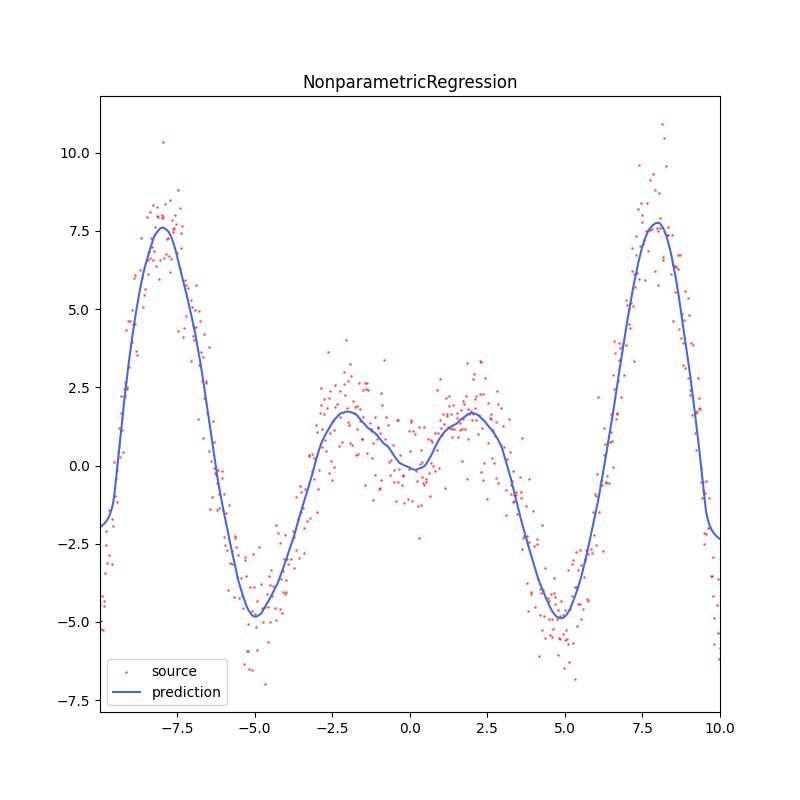
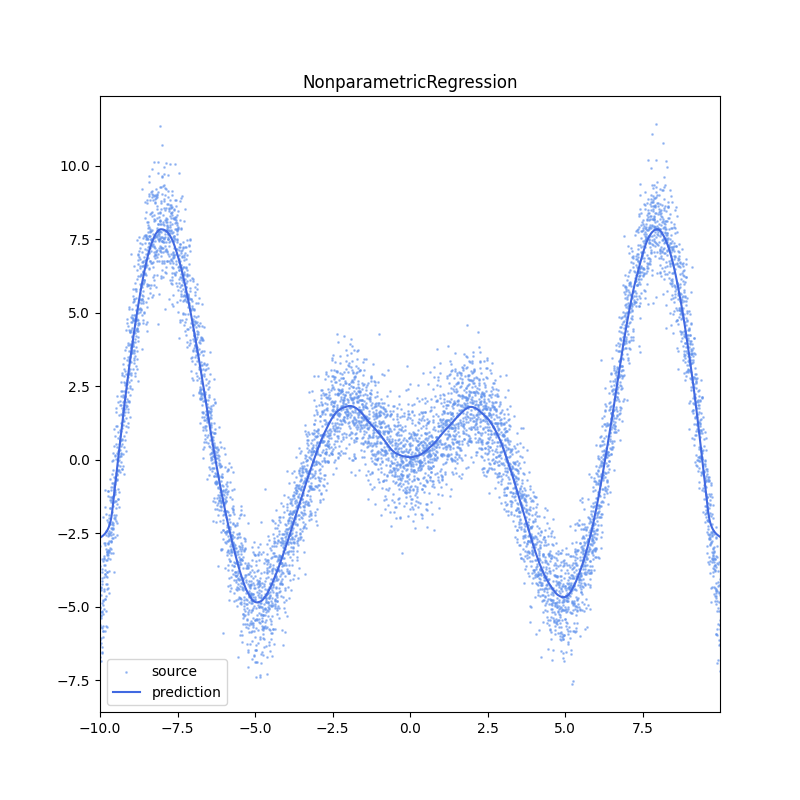
homework1_sem2

diff --git a/homeworks/sem2_hw1/vizualize.py b/homeworks/sem2_hw1/vizualize.py
@@ -1,0 +1,110 @@
+import numpy as np
+import matplotlib.pyplot as plt
+from enum import Enum
+import os
+
+
+class DiagramType(Enum):
+    violin = 0,
+    hist = 1,
+    boxplot = 2
+
+
+def _vizualize_violin(axis: plt.Axes, data: np.ndarray, vert=False) -> None:
+    violin_parts = axis.violinplot(
+        data,
+        vert=vert,
+        showmedians=True,
+    )
+
+    for body in violin_parts["bodies"]:
+        body.set_facecolor("cornflowerblue")
+        body.set_edgecolor("blue")
+    for part in violin_parts:
+        if part == "bodies":
+            continue
+        violin_parts[part].set_edgecolor("cornflowerblue")
+
+
+def _vizualize_hist(axis: plt.Axes, data: np.ndarray, vert=False) -> None:
+    axis.hist(
+        data,
+        bins=50,
+        color="cornflowerblue",
+        orientation= "vertical" if not vert else "horizontal",
+        density=True,
+        alpha=0.5,
+    )
+
+
+def _visualize_boxplot(axis: plt.Axes, data: np.ndarray, vert=False) -> None:
+    axis.boxplot(
+        data,
+        vert=vert,
+        patch_artist=True,
+        boxprops=dict(facecolor="lightsteelblue"),
+        medianprops=dict(color="k"),
+    )
+
+
+def _visualise(axis: plt.Axes, data: np.ndarray, diagram_type: DiagramType, vert=False) -> None:
+    if diagram_type == DiagramType.boxplot:
+        _visualize_boxplot(axis, data, vert)
+    elif diagram_type == DiagramType.hist:
+        _vizualize_hist(axis, data, vert)
+    elif diagram_type == DiagramType.violin:
+        _vizualize_violin(axis, data, vert)
+    else:
+        raise RuntimeError('unknown diagram type')
+
+
+def visualize_distribution(
+#    axis: plt.Axes, /не понятно как юзать в двумерном случае
+    data: np.ndarray,
+    diagram_type: DiagramType,
+    path_to_save: str = "",
+) -> None:
+    if data.ndim == 1:
+        figure = plt.figure(figsize=(8, 4))
+        axis = figure.add_subplot()
+        _visualise(axis, data, diagram_type)
+        axis.set_yticks([])
+    elif data.ndim == 2:
+        figure = plt.figure(figsize=(8, 8))
+        space = 0.2
+        height = 3
+        weight = 3
+
+        grid = plt.GridSpec(height, weight, wspace=space, hspace=space)
+
+        axis_scatter = figure.add_subplot(grid[:2, -2:])
+        axis_scatter.scatter(data[:, 0], data[:, 1], color="cornflowerblue", alpha=0.5)
+        
+        axis_diagram_vertical = figure.add_subplot(grid[:2, 0], sharey=axis_scatter)
+        axis_diagram_horizontal = figure.add_subplot(grid[-1, -2:], sharex=axis_scatter)
+
+        _visualise(axis_diagram_vertical, data[:, 1], diagram_type, True)
+        _visualise(axis_diagram_horizontal, data[:, 0], diagram_type)
+        axis_diagram_vertical.invert_xaxis()
+#        axis_diagram_vertical.set_xticks([])
+        axis_diagram_horizontal.invert_yaxis()
+#        axis_diagram_horizontal.set_yticks([])
+
+    if path_to_save != "":
+        if os.path.exists(path_to_save + '.png'):
+            print(f'Warning: the file {path_to_save} was overwritten')
+        plt.savefig(path_to_save)
+
+
+if __name__ == "__main__":
+    path_to_save = './homeworks/sem2_hw1/images/kartinka'
+
+    a = np.array([[1, 2], [5, 6], [9, 2], [1, 4]])
+    b = np.array([1, 1, 3, 4, 5, 5, 6, 4, 5, 3, 7, 8])
+
+    mean = [2, 3]
+    cov = [[1, 1], [1, 2]]
+    space = 0.2
+
+
+    visualize_distribution(np.random.multivariate_normal(mean, cov, size=1000), DiagramType.hist, path_to_save)

diff --git a/homeworks/sem2_hw1/vizualize_result.py b/homeworks/sem2_hw1/vizualize_result.py
@@ -1,0 +1,74 @@
+import numpy as np
+import matplotlib.pyplot as plt
+import os
+
+
+def vizualize_classification(
+    points: np.ndarray, 
+    lables: np.ndarray,
+    path_to_save: str, 
+    colors = []
+) -> None:
+    figure = plt.figure(figsize=(8, 8))
+    axis = figure.add_subplot()
+    axis.set_title("classification", fontweight='bold')
+
+    if len(colors) == 0:
+        for label in np.unique(lables):
+            axis.scatter(points[lables == label], alpha=0.5)
+    else:
+        for i, label in enumerate(np.unique(lables)):
+            color = colors[i % len(colors)]
+            axis.scatter(points[lables == label], color=color, alpha=0.5)
+
+    if path_to_save != "":
+        if os.path.exists(path_to_save + '.png'):
+            print(f'Warning: the file {path_to_save} was overwritten')
+        plt.savefig(path_to_save)
+
+
+def vizualize_regression(
+        abscissa: np.ndarray,
+        ordinates: np.ndarray,
+        predict: np.ndarray,
+        path_to_save: str,
+        down_error: np.ndarray = None,
+        up_error: np.ndarray = None,
+) -> None:
+    figure = plt.figure(figsize=(8, 8))
+    axis = figure.add_subplot()
+
+    axis.set_title('NonparametricRegression')
+
+    axis.scatter(abscissa, ordinates, label='source', c='cornflowerblue', s=1, alpha=0.5)
+    axis.plot(
+        abscissa, 
+        predict,
+        label='prediction',
+        c='royalblue', 
+        linewidth=1.5
+    )
+    
+    if not down_error is None and not up_error is None:
+        axis.plot(
+            abscissa, 
+            down_error,
+            label='error',
+            c='royalblue', 
+            linewidth=1.5,
+            linestyle='--'
+        )
+        axis.plot(
+            abscissa, 
+            up_error,
+            c='royalblue', 
+            linewidth=1.5,
+            linestyle='--'
+        )
+
+    axis.legend()
+    
+    if path_to_save != "":
+        if os.path.exists(path_to_save + '.png'):
+            print(f'Warning: the file {path_to_save} was overwritten')
+        plt.savefig(path_to_save)

diff --git a/homeworks/sem2_hw1/preprocessing.py b/homeworks/sem2_hw1/preprocessing.py
@@ -1,4 +1,5 @@
 import numpy as np
+from typing import Callable, Any
 
 
 class ShapeMismatchError(Exception):
@@ -29,12 +30,36 @@ def train_test_split(
     targets_train = targets[:train_count]
     targets_test = targets[train_count:]
 
-    mask_train = np.argsort(features_train)
-    mask_test = np.argsort(features_test)
+    if (features.ndim == 1):
+        mask_train = np.argsort(features_train)
+        mask_test = np.argsort(features_test)
+
+        features_train = features[mask_train]
+        features_test = features[mask_test]
+        targets_train = targets[mask_train]
+        targets_test = targets[mask_test]
 
     return(
-        features_train[mask_train],
-        features_test[mask_test],
-        targets_train[mask_train],
-        targets_test[mask_test]
+        features_train,
+        features_test,
+        targets_train,
+        targets_test
     )
+
+
+def get_boxplot_outliers(
+    data: np.ndarray,
+    key: Callable[[Any], Any],
+) -> np.ndarray:
+    mask = np.argsort(data, key=key)
+    q1 = data[mask][data.size * 0.25]
+    q3 = data[mask][data.size * 0.75]
+    key = np.vectorize(key)
+    e = (q3 - q1) * 1.5
+    res = np.argwhere(key(data, q1-e) or key(q3+e, data))
+
+    return res
+
+
+if __name__ == "__main__":
+    pass

diff --git a/homeworks/sem2_hw1/demo_KNN.py b/homeworks/sem2_hw1/demo_KNN.py
@@ -13,13 +13,13 @@ dir = os.path.dirname(os.path.abspath(__file__))
 def generate_data() -> list[np.ndarray, np.ndarray, np.ndarray, np.ndarray]:
 
     x, y = make_classification(
-        n_samples=1000,
-        n_features=4,
+        n_samples=5000,
+        n_features=2,
         n_redundant=0,
-        n_informative=4,
+        n_informative=2,
         random_state=1,
-        n_clusters_per_class=3,
-        n_classes=4
+        n_clusters_per_class=1,
+        n_classes=3
     )
 
     return train_test_split(x, y, shuffle=True, train_ratio=0.5)
@@ -43,7 +43,7 @@ def visualize(x: np.ndarray, y: np.ndarray, predict: np.ndarray, name: str) -> N
 def test_KNN() -> None:
     X_train, X_test, Y_train, Y_test = generate_data()
 
-    knn = KNN(Metric.l2, k=11, n=7)
+    knn = KNN(Metric.l2, k=15, n=20)
 
     knn.fit(X_train, Y_train)
     prediction = knn.predict(X_train)

diff --git a/homeworks/sem2_hw1/metrics.py b/homeworks/sem2_hw1/metrics.py
@@ -7,8 +7,6 @@ class ShapeMismatchError(Exception):
 
 
 def l1(a: np.ndarray, b: np.ndarray) -> np.ndarray:
-    a = a.copy()
-    b = b.copy()
 
     if a.ndim == 1:
         a = a.reshape(a.shape[0], 1)
@@ -20,8 +18,6 @@ def l1(a: np.ndarray, b: np.ndarray) -> np.ndarray:
 
 
 def l2(a: np.ndarray, b: np.ndarray) -> np.ndarray:
-    a = a.copy()
-    b = b.copy()
 
     if a.ndim == 1:
         a = a.reshape(a.shape[0], 1)
@@ -41,7 +37,7 @@ def MAE(ordinates: np.ndarray, predict: np.ndarray):
 
 
 def R_2(ordinates: np.ndarray, predict: np.ndarray):
-    return 1 - np.sum((predict - ordinates) ** 2) / np.std(ordinates)
+    return 1 - np.sum((predict - ordinates) ** 2) / np.var(ordinates)
 
 
 def accuracy(ordinates: np.ndarray, predict: np.ndarray):

diff --git a/homeworks/sem2_hw1/demo_NPR.py b/homeworks/sem2_hw1/demo_NPR.py
@@ -7,10 +7,10 @@ import os
 
 
 dir = os.path.dirname(os.path.abspath(__file__))
-POINTS_AMOUNT = 1000
+POINTS_AMOUNT = 10000
 BOUNDS = (-10, 10)
 FIGSIZE = (8, 8)
-K = 50
+K = 400
 
 
 def _visualize(abscissa, ordinates, predict, save_path):
@@ -18,7 +18,7 @@ def _visualize(abscissa, ordinates, predict, save_path):
 
     axis.set_title('NonparametricRegression')
 
-    axis.scatter(abscissa, ordinates, label='source', c='r', s=1, alpha=0.5)
+    axis.scatter(abscissa, ordinates, label='source', c='cornflowerblue', s=1, alpha=0.5)
     axis.plot(abscissa, predict, label='prediction',
               c='royalblue', linewidth=1.5)
 

diff --git a/homeworks/sem2_hw1/algorithm/np_regression.py b/homeworks/sem2_hw1/algorithm/np_regression.py
@@ -18,7 +18,7 @@ class NonparametricRegression:
         res = np.zeros(u.shape)
         res[mask] = 3 / 4 * (1 - u[mask] ** 2)
 
-        return res
+        return 3 / 4 * (1 - u ** 2) * (abs(u) <= 1)
 
     def predict(self, x: np.ndarray) -> np.ndarray:
 
